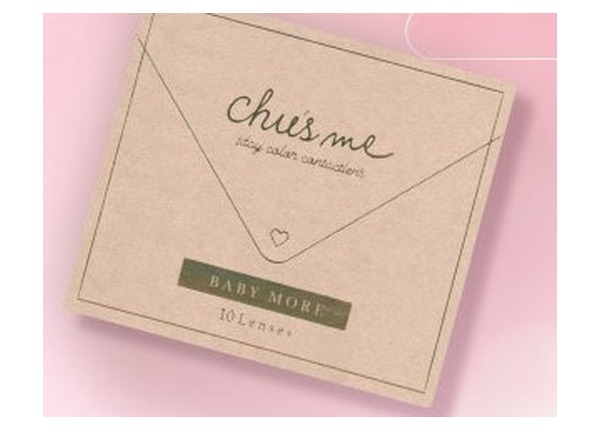
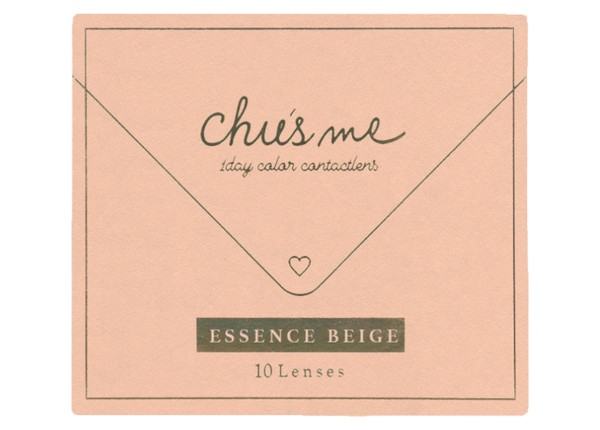
タブ名変更・文言修正・カラコン画像差替・店舗営業時間追記ほか
- ナビ「子供視力サポート」→「お子様視力サポート」（全ページ）
- 定期便の注記をアキュビュー定期便のみに修正
- お子様視力サポート：不要な「STEP 1」ラベルを削除
- クーポン（LP）：初回特別価格カードを削除
- カラコン3製品（MOLAK/N's/Chu's me）のパッケージ画像を差し替え
- コンタクト取扱店舗に営業時間を追記、受付時間を公式・眼科HP準拠に更新（ルクアは併設眼科の受付時間）

diff --git a/contactlens.html b/contactlens.html
@@ -29,7 +29,7 @@
         <a href="index.html">ホーム</a>
         <a href="index.html#strengths">当店の強み</a>
         <a href="index.html#concerns">お悩み別</a>
-        <a href="service.html">サービス一覧</a><a href="contactlens.html" class="active">コンタクトレンズ</a><a href="kodomo.html">子供視力サポート</a><a href="coupon.html">クーポン</a>
+        <a href="service.html">サービス一覧</a><a href="contactlens.html" class="active">コンタクトレンズ</a><a href="kodomo.html">お子様視力サポート</a><a href="coupon.html">クーポン</a>
         <a href="hajimete.html">初めての方へ</a>
         
         <a href="shop.html">店舗案内</a>
@@ -46,7 +46,7 @@
     <a href="index.html">ホーム</a>
     <a href="index.html#strengths">当店の強み</a>
     <a href="index.html#concerns">お悩み別</a>
-    <a href="service.html">サービス一覧</a><a href="contactlens.html" class="active">コンタクトレンズ</a><a href="kodomo.html">子供視力サポート</a><a href="coupon.html">クーポン</a>
+    <a href="service.html">サービス一覧</a><a href="contactlens.html" class="active">コンタクトレンズ</a><a href="kodomo.html">お子様視力サポート</a><a href="coupon.html">クーポン</a>
     <a href="hajimete.html">初めての方へ</a>
     
     <a href="shop.html">店舗案内</a>
@@ -122,7 +122,7 @@
         <span class="section-label">LENS TYPES</span>
         <h2 class="section-title">取り扱いレンズの種類</h2>
         <p class="section-subtitle">ライフスタイルや目の状態に合わせてお選びいただけます。</p>
-        <p class="lens-plan-note">※「アキュビュー定期便」「MARLO」などのメーカー定期便は、天六店のみのお取り扱いです。</p>
+        <p class="lens-plan-note">※「アキュビュー定期便」は天六店のみのお取り扱いです。</p>
       </div>
 
       <!-- 1DAYレンズ -->
@@ -396,7 +396,9 @@
           <h3 class="strength-title"><a href="shop.html#tcs-tenroku">TCS天六本店</a></h3>
           <p style="font-size: 0.85rem; color: var(--text-light); line-height: 1.8; text-align: left;">天神橋筋六丁目商店街にあり、眼科も隣接。初めての方にも経験豊富なスタッフがコンタクトデビューをサポートします。</p>
           <div style="margin-top: 12px; font-size: 0.82rem; color: var(--text-muted); text-align: left; line-height: 2;">
-            <p><strong>受付時間</strong></p>
+            <p><strong>営業時間</strong></p>
+            <p>10:00〜20:00（火曜日のみ 10:00〜18:00）</p>
+            <p style="margin-top: 8px;"><strong>受付時間</strong></p>
             <p>月〜金 10:00〜12:30 / 15:00〜18:00</p>
             <p>土 10:00〜12:30</p>
             <p>日 12:30〜15:30</p>
@@ -408,8 +410,11 @@
           <h3 class="strength-title"><a href="shop.html#tcs-lucua">TCSルクア大阪店</a></h3>
           <p style="font-size: 0.85rem; color: var(--text-light); line-height: 1.8; text-align: left;">通勤やお買い物のついでに立ち寄れる便利な立地。眼科専門医が隣接で安心してご利用いただけます。</p>
           <div style="margin-top: 12px; font-size: 0.82rem; color: var(--text-muted); text-align: left; line-height: 2;">
-            <p><strong>受付時間</strong></p>
-            <p>詳しくは店舗ページをご確認ください</p>
+            <p><strong>営業時間</strong></p>
+            <p>10:30〜20:30</p>
+            <p style="margin-top: 8px;"><strong>受付時間（併設の眼科）</strong></p>
+            <p>平日 12:30〜15:30 / 16:30〜19:30</p>
+            <p>土日祝 12:30〜15:30 / 16:30〜18:30</p>
           </div>
         </div>
         <!-- TCS天王寺MiO店 -->
@@ -418,7 +423,9 @@
           <h3 class="strength-title"><a href="shop.html#tcs-tennoji">TCS天王寺MiO店</a></h3>
           <p style="font-size: 0.85rem; color: var(--text-light); line-height: 1.8; text-align: left;">天王寺MiO 8階、眼科併設。初めての方にも経験豊富なスタッフがサポートいたします。</p>
           <div style="margin-top: 12px; font-size: 0.82rem; color: var(--text-muted); text-align: left; line-height: 2;">
-            <p><strong>受付時間</strong></p>
+            <p><strong>営業時間</strong></p>
+            <p>11:00〜21:00</p>
+            <p style="margin-top: 8px;"><strong>受付時間</strong></p>
             <p>11:30〜14:30 / 15:30〜18:30</p>
           </div>
         </div>

diff --git a/voice.html b/voice.html
@@ -8,8 +8,8 @@
   <link rel="stylesheet" href="css/style.css">
 </head>
 <body>
-  <header class="site-header" id="header"><div class="header-inner"><a href="index.html" class="nav-logo"><span class="nav-logo-main">髙橋メガネ</span><span class="nav-logo-sub">地域の目の専門店</span></a><nav class="nav-links"><a href="index.html">ホーム</a><a href="index.html#strengths">当店の強み</a><a href="index.html#concerns">お悩み別</a><a href="service.html">サービス一覧</a><a href="contactlens.html">コンタクトレンズ</a><a href="kodomo.html">子供視力サポート</a><a href="coupon.html">クーポン</a><a href="hajimete.html">初めての方へ</a><a href="shop.html">店舗案内</a><a href="recruit.html">採用情報</a></nav><button class="hamburger" id="hamburger" aria-label="メニューを開く"><span></span><span></span><span></span></button></div></header>
-  <div class="mobile-menu" id="mobileMenu"><a href="index.html">ホーム</a><a href="index.html#strengths">当店の強み</a><a href="index.html#concerns">お悩み別</a><a href="service.html">サービス一覧</a><a href="contactlens.html">コンタクトレンズ</a><a href="kodomo.html">子供視力サポート</a><a href="coupon.html">クーポン</a><a href="hajimete.html">初めての方へ</a><a href="shop.html">店舗案内</a><a href="recruit.html">採用情報</a></div>
+  <header class="site-header" id="header"><div class="header-inner"><a href="index.html" class="nav-logo"><span class="nav-logo-main">髙橋メガネ</span><span class="nav-logo-sub">地域の目の専門店</span></a><nav class="nav-links"><a href="index.html">ホーム</a><a href="index.html#strengths">当店の強み</a><a href="index.html#concerns">お悩み別</a><a href="service.html">サービス一覧</a><a href="contactlens.html">コンタクトレンズ</a><a href="kodomo.html">お子様視力サポート</a><a href="coupon.html">クーポン</a><a href="hajimete.html">初めての方へ</a><a href="shop.html">店舗案内</a><a href="recruit.html">採用情報</a></nav><button class="hamburger" id="hamburger" aria-label="メニューを開く"><span></span><span></span><span></span></button></div></header>
+  <div class="mobile-menu" id="mobileMenu"><a href="index.html">ホーム</a><a href="index.html#strengths">当店の強み</a><a href="index.html#concerns">お悩み別</a><a href="service.html">サービス一覧</a><a href="contactlens.html">コンタクトレンズ</a><a href="kodomo.html">お子様視力サポート</a><a href="coupon.html">クーポン</a><a href="hajimete.html">初めての方へ</a><a href="shop.html">店舗案内</a><a href="recruit.html">採用情報</a></div>
 
   <div class="page-header"><div class="container"><span class="section-label">REVIEWS</span><h1 class="section-title">お客様の声</h1><p class="section-subtitle">実際にご来店いただいたお客様からの声をご紹介します。</p></div></div>
   <div class="breadcrumb"><div class="container"><a href="index.html">ホーム</a><span>›</span>お客様の声</div></div>

diff --git a/blog.html b/blog.html
@@ -8,8 +8,8 @@
   <link rel="stylesheet" href="css/style.css">
 </head>
 <body>
-  <header class="site-header" id="header"><div class="header-inner"><a href="index.html" class="nav-logo"><span class="nav-logo-main">髙橋メガネ</span><span class="nav-logo-sub">地域の目の専門店</span></a><nav class="nav-links"><a href="index.html">ホーム</a><a href="index.html#strengths">当店の強み</a><a href="index.html#concerns">お悩み別</a><a href="service.html">サービス一覧</a><a href="contactlens.html">コンタクトレンズ</a><a href="kodomo.html">子供視力サポート</a><a href="coupon.html">クーポン</a><a href="hajimete.html">初めての方へ</a><a href="shop.html">店舗案内</a><a href="recruit.html">採用情報</a></nav><button class="hamburger" id="hamburger" aria-label="メニューを開く"><span></span><span></span><span></span></button></div></header>
-  <div class="mobile-menu" id="mobileMenu"><a href="index.html">ホーム</a><a href="index.html#strengths">当店の強み</a><a href="index.html#concerns">お悩み別</a><a href="service.html">サービス一覧</a><a href="contactlens.html">コンタクトレンズ</a><a href="kodomo.html">子供視力サポート</a><a href="coupon.html">クーポン</a><a href="hajimete.html">初めての方へ</a><a href="shop.html">店舗案内</a><a href="recruit.html">採用情報</a></div>
+  <header class="site-header" id="header"><div class="header-inner"><a href="index.html" class="nav-logo"><span class="nav-logo-main">髙橋メガネ</span><span class="nav-logo-sub">地域の目の専門店</span></a><nav class="nav-links"><a href="index.html">ホーム</a><a href="index.html#strengths">当店の強み</a><a href="index.html#concerns">お悩み別</a><a href="service.html">サービス一覧</a><a href="contactlens.html">コンタクトレンズ</a><a href="kodomo.html">お子様視力サポート</a><a href="coupon.html">クーポン</a><a href="hajimete.html">初めての方へ</a><a href="shop.html">店舗案内</a><a href="recruit.html">採用情報</a></nav><button class="hamburger" id="hamburger" aria-label="メニューを開く"><span></span><span></span><span></span></button></div></header>
+  <div class="mobile-menu" id="mobileMenu"><a href="index.html">ホーム</a><a href="index.html#strengths">当店の強み</a><a href="index.html#concerns">お悩み別</a><a href="service.html">サービス一覧</a><a href="contactlens.html">コンタクトレンズ</a><a href="kodomo.html">お子様視力サポート</a><a href="coupon.html">クーポン</a><a href="hajimete.html">初めての方へ</a><a href="shop.html">店舗案内</a><a href="recruit.html">採用情報</a></div>
 
   <div class="page-header"><div class="container"><span class="section-label">BLOG</span><h1 class="section-title">目の健康コラム</h1><p class="section-subtitle">目の健康や見え方に関する情報をお届けします。</p></div></div>
   <div class="breadcrumb"><div class="container"><a href="index.html">ホーム</a><span>›</span>ブログ</div></div>

diff --git a/hajimete.html b/hajimete.html
@@ -20,12 +20,12 @@
     <div class="header-inner">
       <a href="index.html" class="nav-logo"><span class="nav-logo-main">髙橋メガネ</span><span class="nav-logo-sub">地域の目の専門店</span></a>
       <nav class="nav-links">
-        <a href="index.html">ホーム</a><a href="index.html#strengths">当店の強み</a><a href="index.html#concerns">お悩み別</a><a href="service.html">サービス一覧</a><a href="contactlens.html">コンタクトレンズ</a><a href="kodomo.html">子供視力サポート</a><a href="coupon.html">クーポン</a><a href="hajimete.html" class="active">初めての方へ</a><a href="shop.html">店舗案内</a><a href="recruit.html">採用情報</a>
+        <a href="index.html">ホーム</a><a href="index.html#strengths">当店の強み</a><a href="index.html#concerns">お悩み別</a><a href="service.html">サービス一覧</a><a href="contactlens.html">コンタクトレンズ</a><a href="kodomo.html">お子様視力サポート</a><a href="coupon.html">クーポン</a><a href="hajimete.html" class="active">初めての方へ</a><a href="shop.html">店舗案内</a><a href="recruit.html">採用情報</a>
       </nav>
       <button class="hamburger" id="hamburger" aria-label="メニューを開く"><span></span><span></span><span></span></button>
     </div>
   </header>
-  <div class="mobile-menu" id="mobileMenu"><a href="index.html">ホーム</a><a href="index.html#strengths">当店の強み</a><a href="index.html#concerns">お悩み別</a><a href="service.html">サービス一覧</a><a href="contactlens.html">コンタクトレンズ</a><a href="kodomo.html">子供視力サポート</a><a href="coupon.html">クーポン</a><a href="hajimete.html">初めての方へ</a><a href="shop.html">店舗案内</a><a href="recruit.html">採用情報</a></div>
+  <div class="mobile-menu" id="mobileMenu"><a href="index.html">ホーム</a><a href="index.html#strengths">当店の強み</a><a href="index.html#concerns">お悩み別</a><a href="service.html">サービス一覧</a><a href="contactlens.html">コンタクトレンズ</a><a href="kodomo.html">お子様視力サポート</a><a href="coupon.html">クーポン</a><a href="hajimete.html">初めての方へ</a><a href="shop.html">店舗案内</a><a href="recruit.html">採用情報</a></div>
 
   <div class="page-header">
     <div class="container">

diff --git a/hochouki.html b/hochouki.html
@@ -20,13 +20,13 @@
     <div class="header-inner">
       <a href="index.html" class="nav-logo"><span class="nav-logo-main">髙橋メガネ</span><span class="nav-logo-sub">地域の目の専門店</span></a>
       <nav class="nav-links">
-        <a href="index.html">ホーム</a><a href="index.html#strengths">当店の強み</a><a href="index.html#concerns">お悩み別</a><a href="service.html">サービス一覧</a><a href="contactlens.html">コンタクトレンズ</a><a href="kodomo.html">子供視力サポート</a><a href="coupon.html">クーポン</a><a href="hajimete.html">初めての方へ</a><a href="shop.html">店舗案内</a><a href="recruit.html">採用情報</a>
+        <a href="index.html">ホーム</a><a href="index.html#strengths">当店の強み</a><a href="index.html#concerns">お悩み別</a><a href="service.html">サービス一覧</a><a href="contactlens.html">コンタクトレンズ</a><a href="kodomo.html">お子様視力サポート</a><a href="coupon.html">クーポン</a><a href="hajimete.html">初めての方へ</a><a href="shop.html">店舗案内</a><a href="recruit.html">採用情報</a>
       </nav>
       <button class="hamburger" id="hamburger" aria-label="メニューを開く"><span></span><span></span><span></span></button>
     </div>
   </header>
   <div class="mobile-menu" id="mobileMenu">
-    <a href="index.html">ホーム</a><a href="index.html#strengths">当店の強み</a><a href="index.html#concerns">お悩み別</a><a href="service.html">サービス一覧</a><a href="contactlens.html">コンタクトレンズ</a><a href="kodomo.html">子供視力サポート</a><a href="coupon.html">クーポン</a><a href="hajimete.html">初めての方へ</a><a href="shop.html">店舗案内</a><a href="recruit.html">採用情報</a>
+    <a href="index.html">ホーム</a><a href="index.html#strengths">当店の強み</a><a href="index.html#concerns">お悩み別</a><a href="service.html">サービス一覧</a><a href="contactlens.html">コンタクトレンズ</a><a href="kodomo.html">お子様視力サポート</a><a href="coupon.html">クーポン</a><a href="hajimete.html">初めての方へ</a><a href="shop.html">店舗案内</a><a href="recruit.html">採用情報</a>
   </div>
 
   <div class="page-header">

diff --git a/kodomo.html b/kodomo.html
@@ -27,7 +27,7 @@
         <a href="index.html">ホーム</a>
         <a href="index.html#strengths">当店の強み</a>
         <a href="index.html#concerns">お悩み別</a>
-        <a href="service.html">サービス一覧</a><a href="contactlens.html">コンタクトレンズ</a><a href="kodomo.html" class="active">子供視力サポート</a><a href="coupon.html">クーポン</a>
+        <a href="service.html">サービス一覧</a><a href="contactlens.html">コンタクトレンズ</a><a href="kodomo.html" class="active">お子様視力サポート</a><a href="coupon.html">クーポン</a>
         <a href="hajimete.html">初めての方へ</a>
         
         <a href="shop.html">店舗案内</a>
@@ -41,7 +41,7 @@
     <a href="index.html">ホーム</a>
     <a href="index.html#strengths">当店の強み</a>
     <a href="index.html#concerns">お悩み別</a>
-    <a href="service.html">サービス一覧</a><a href="contactlens.html">コンタクトレンズ</a><a href="kodomo.html" class="active">子供視力サポート</a><a href="coupon.html">クーポン</a>
+    <a href="service.html">サービス一覧</a><a href="contactlens.html">コンタクトレンズ</a><a href="kodomo.html" class="active">お子様視力サポート</a><a href="coupon.html">クーポン</a>
     <a href="hajimete.html">初めての方へ</a>
     
     <a href="shop.html">店舗案内</a>
@@ -123,7 +123,6 @@
     <div class="container">
       <div class="kodomo-two-col fade-in">
         <div class="kodomo-col-text">
-          <span class="section-label">STEP 1</span>
           <h2 class="section-title">まず、<a href="https://www.cmc.gr.jp/" class="eyecare-link" target="_blank" rel="noopener">眼科</a>で<br>目の状態を確認</h2>
           <p style="color:var(--text-light);line-height:2;">お子様の見え方は成長とともに変化します。近視・遠視・斜視・弱視などを正しく知るために、はじめに<a href="https://www.cmc.gr.jp/" class="eyecare-link" target="_blank" rel="noopener">眼科</a>での検査をおすすめしています。検査後の処方箋をお持ちいただければ、髙橋メガネがお子様に最適なメガネづくりをお手伝いします。</p>
         </div>

diff --git a/shop.html b/shop.html
@@ -62,7 +62,7 @@
         <a href="index.html">ホーム</a>
         <a href="index.html#strengths">当店の強み</a>
         <a href="index.html#concerns">お悩み別</a>
-        <a href="service.html">サービス一覧</a><a href="contactlens.html">コンタクトレンズ</a><a href="kodomo.html">子供視力サポート</a><a href="coupon.html">クーポン</a>
+        <a href="service.html">サービス一覧</a><a href="contactlens.html">コンタクトレンズ</a><a href="kodomo.html">お子様視力サポート</a><a href="coupon.html">クーポン</a>
         <a href="hajimete.html">初めての方へ</a>
         
         <a href="shop.html" class="active">店舗案内</a>
@@ -72,7 +72,7 @@
     </div>
   </header>
   <div class="mobile-menu" id="mobileMenu">
-    <a href="index.html">ホーム</a><a href="index.html#strengths">当店の強み</a><a href="index.html#concerns">お悩み別</a><a href="service.html">サービス一覧</a><a href="contactlens.html">コンタクトレンズ</a><a href="kodomo.html">子供視力サポート</a><a href="coupon.html">クーポン</a><a href="hajimete.html">初めての方へ</a><a href="shop.html">店舗案内</a><a href="recruit.html">採用情報</a>
+    <a href="index.html">ホーム</a><a href="index.html#strengths">当店の強み</a><a href="index.html#concerns">お悩み別</a><a href="service.html">サービス一覧</a><a href="contactlens.html">コンタクトレンズ</a><a href="kodomo.html">お子様視力サポート</a><a href="coupon.html">クーポン</a><a href="hajimete.html">初めての方へ</a><a href="shop.html">店舗案内</a><a href="recruit.html">採用情報</a>
   </div>
 
   <!-- ページヘッダー -->

diff --git a/megane.html b/megane.html
@@ -892,7 +892,7 @@
         <a href="index.html">ホーム</a>
         <a href="index.html#strengths">当店の強み</a>
         <a href="index.html#concerns">お悩み別</a>
-        <a href="service.html" class="active">サービス一覧</a><a href="contactlens.html">コンタクトレンズ</a><a href="kodomo.html">子供視力サポート</a><a href="coupon.html">クーポン</a>
+        <a href="service.html" class="active">サービス一覧</a><a href="contactlens.html">コンタクトレンズ</a><a href="kodomo.html">お子様視力サポート</a><a href="coupon.html">クーポン</a>
         <a href="hajimete.html">初めての方へ</a>
         
         <a href="shop.html">店舗案内</a>
@@ -909,7 +909,7 @@
     <a href="index.html">ホーム</a>
     <a href="index.html#strengths">当店の強み</a>
     <a href="index.html#concerns">お悩み別</a>
-    <a href="service.html">サービス一覧</a><a href="contactlens.html">コンタクトレンズ</a><a href="kodomo.html">子供視力サポート</a><a href="coupon.html">クーポン</a>
+    <a href="service.html">サービス一覧</a><a href="contactlens.html">コンタクトレンズ</a><a href="kodomo.html">お子様視力サポート</a><a href="coupon.html">クーポン</a>
     <a href="hajimete.html">初めての方へ</a>
     
     <a href="shop.html">店舗案内</a>

diff --git a/service.html b/service.html
@@ -28,7 +28,7 @@
         <a href="index.html">ホーム</a>
         <a href="index.html#strengths">当店の強み</a>
         <a href="index.html#concerns">お悩み別</a>
-        <a href="service.html" class="active">サービス一覧</a><a href="contactlens.html">コンタクトレンズ</a><a href="kodomo.html">子供視力サポート</a><a href="coupon.html">クーポン</a>
+        <a href="service.html" class="active">サービス一覧</a><a href="contactlens.html">コンタクトレンズ</a><a href="kodomo.html">お子様視力サポート</a><a href="coupon.html">クーポン</a>
         <a href="hajimete.html">初めての方へ</a>
         
         <a href="shop.html">店舗案内</a>
@@ -45,7 +45,7 @@
     <a href="index.html">ホーム</a>
     <a href="index.html#strengths">当店の強み</a>
     <a href="index.html#concerns">お悩み別</a>
-    <a href="service.html">サービス一覧</a><a href="contactlens.html">コンタクトレンズ</a><a href="kodomo.html">子供視力サポート</a><a href="coupon.html">クーポン</a>
+    <a href="service.html">サービス一覧</a><a href="contactlens.html">コンタクトレンズ</a><a href="kodomo.html">お子様視力サポート</a><a href="coupon.html">クーポン</a>
     <a href="hajimete.html">初めての方へ</a>
     
     <a href="shop.html">店舗案内</a>

diff --git a/enkinhoryou.html b/enkinhoryou.html
@@ -28,7 +28,7 @@
         <a href="index.html">ホーム</a>
         <a href="index.html#strengths">当店の強み</a>
         <a href="index.html#concerns">お悩み別</a>
-        <a href="service.html">サービス一覧</a><a href="contactlens.html">コンタクトレンズ</a><a href="kodomo.html">子供視力サポート</a><a href="coupon.html">クーポン</a>
+        <a href="service.html">サービス一覧</a><a href="contactlens.html">コンタクトレンズ</a><a href="kodomo.html">お子様視力サポート</a><a href="coupon.html">クーポン</a>
         <a href="hajimete.html">初めての方へ</a>
         
         <a href="shop.html">店舗案内</a>
@@ -44,7 +44,7 @@
     <a href="index.html">ホーム</a>
     <a href="index.html#strengths">当店の強み</a>
     <a href="index.html#concerns">お悩み別</a>
-    <a href="service.html">サービス一覧</a><a href="contactlens.html">コンタクトレンズ</a><a href="kodomo.html">子供視力サポート</a><a href="coupon.html">クーポン</a>
+    <a href="service.html">サービス一覧</a><a href="contactlens.html">コンタクトレンズ</a><a href="kodomo.html">お子様視力サポート</a><a href="coupon.html">クーポン</a>
     <a href="hajimete.html">初めての方へ</a>
     
     <a href="shop.html">店舗案内</a>

diff --git a/recruit.html b/recruit.html
@@ -28,7 +28,7 @@
         <a href="index.html">ホーム</a>
         <a href="index.html#strengths">当店の強み</a>
         <a href="index.html#concerns">お悩み別</a>
-        <a href="service.html">サービス一覧</a><a href="contactlens.html">コンタクトレンズ</a><a href="kodomo.html">子供視力サポート</a><a href="coupon.html">クーポン</a>
+        <a href="service.html">サービス一覧</a><a href="contactlens.html">コンタクトレンズ</a><a href="kodomo.html">お子様視力サポート</a><a href="coupon.html">クーポン</a>
         <a href="hajimete.html">初めての方へ</a>
         
         <a href="shop.html">店舗案内</a>
@@ -45,7 +45,7 @@
     <a href="index.html">ホーム</a>
     <a href="index.html#strengths">当店の強み</a>
     <a href="index.html#concerns">お悩み別</a>
-    <a href="service.html">サービス一覧</a><a href="contactlens.html">コンタクトレンズ</a><a href="kodomo.html">子供視力サポート</a><a href="coupon.html">クーポン</a>
+    <a href="service.html">サービス一覧</a><a href="contactlens.html">コンタクトレンズ</a><a href="kodomo.html">お子様視力サポート</a><a href="coupon.html">クーポン</a>
     <a href="hajimete.html">初めての方へ</a>
     
     <a href="shop.html">店舗案内</a>

diff --git a/shindan.html b/shindan.html
@@ -28,7 +28,7 @@
         <a href="index.html">ホーム</a>
         <a href="index.html#strengths">当店の強み</a>
         <a href="index.html#concerns">お悩み別</a>
-        <a href="service.html">サービス一覧</a><a href="contactlens.html">コンタクトレンズ</a><a href="kodomo.html">子供視力サポート</a><a href="coupon.html">クーポン</a>
+        <a href="service.html">サービス一覧</a><a href="contactlens.html">コンタクトレンズ</a><a href="kodomo.html">お子様視力サポート</a><a href="coupon.html">クーポン</a>
         <a href="hajimete.html">初めての方へ</a>
         
         <a href="shop.html">店舗案内</a>
@@ -45,7 +45,7 @@
     <a href="index.html">ホーム</a>
     <a href="index.html#strengths">当店の強み</a>
     <a href="index.html#concerns">お悩み別</a>
-    <a href="service.html">サービス一覧</a><a href="contactlens.html">コンタクトレンズ</a><a href="kodomo.html">子供視力サポート</a><a href="coupon.html">クーポン</a>
+    <a href="service.html">サービス一覧</a><a href="contactlens.html">コンタクトレンズ</a><a href="kodomo.html">お子様視力サポート</a><a href="coupon.html">クーポン</a>
     <a href="hajimete.html">初めての方へ</a>
     
     <a href="shop.html">店舗案内</a>
